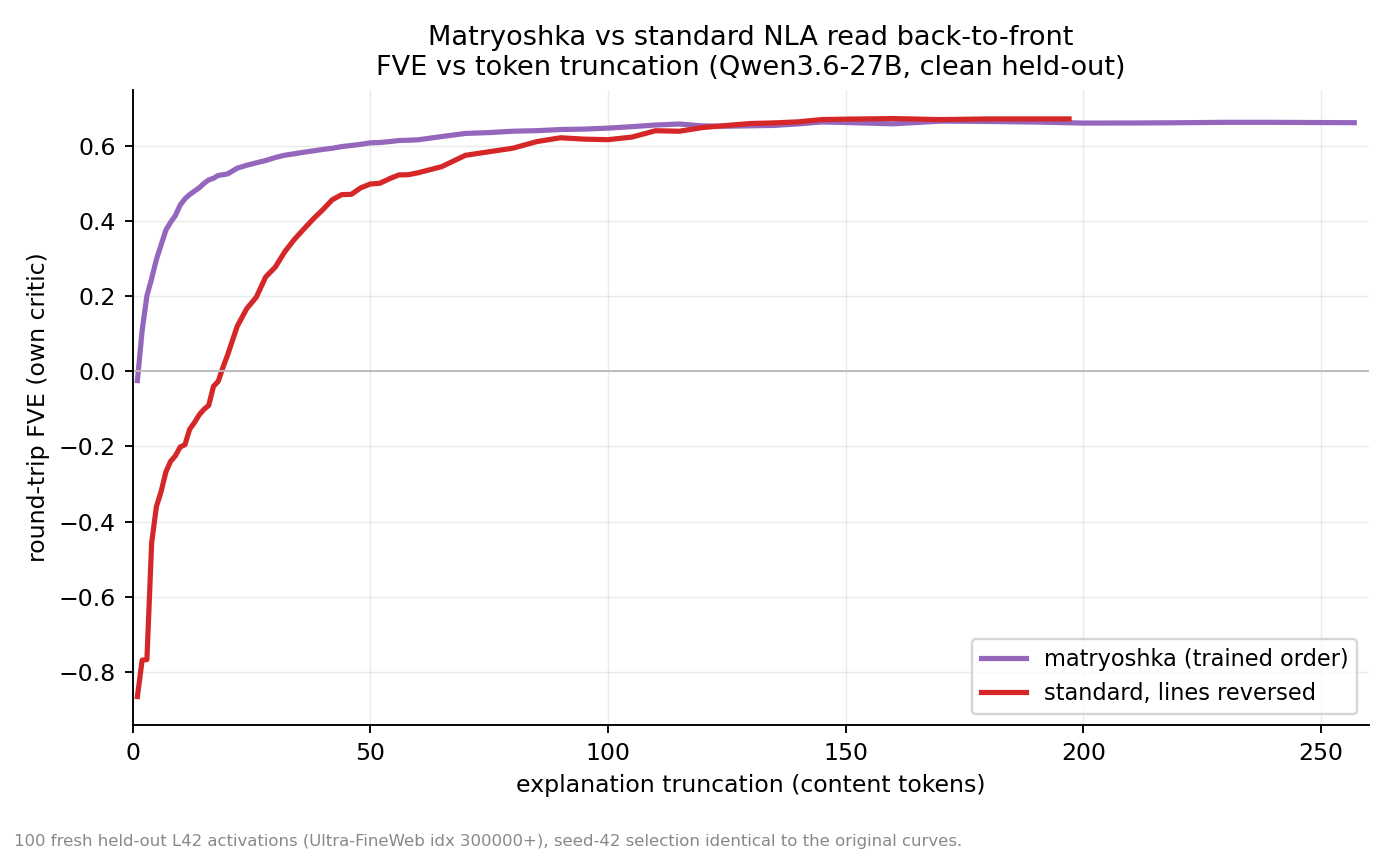
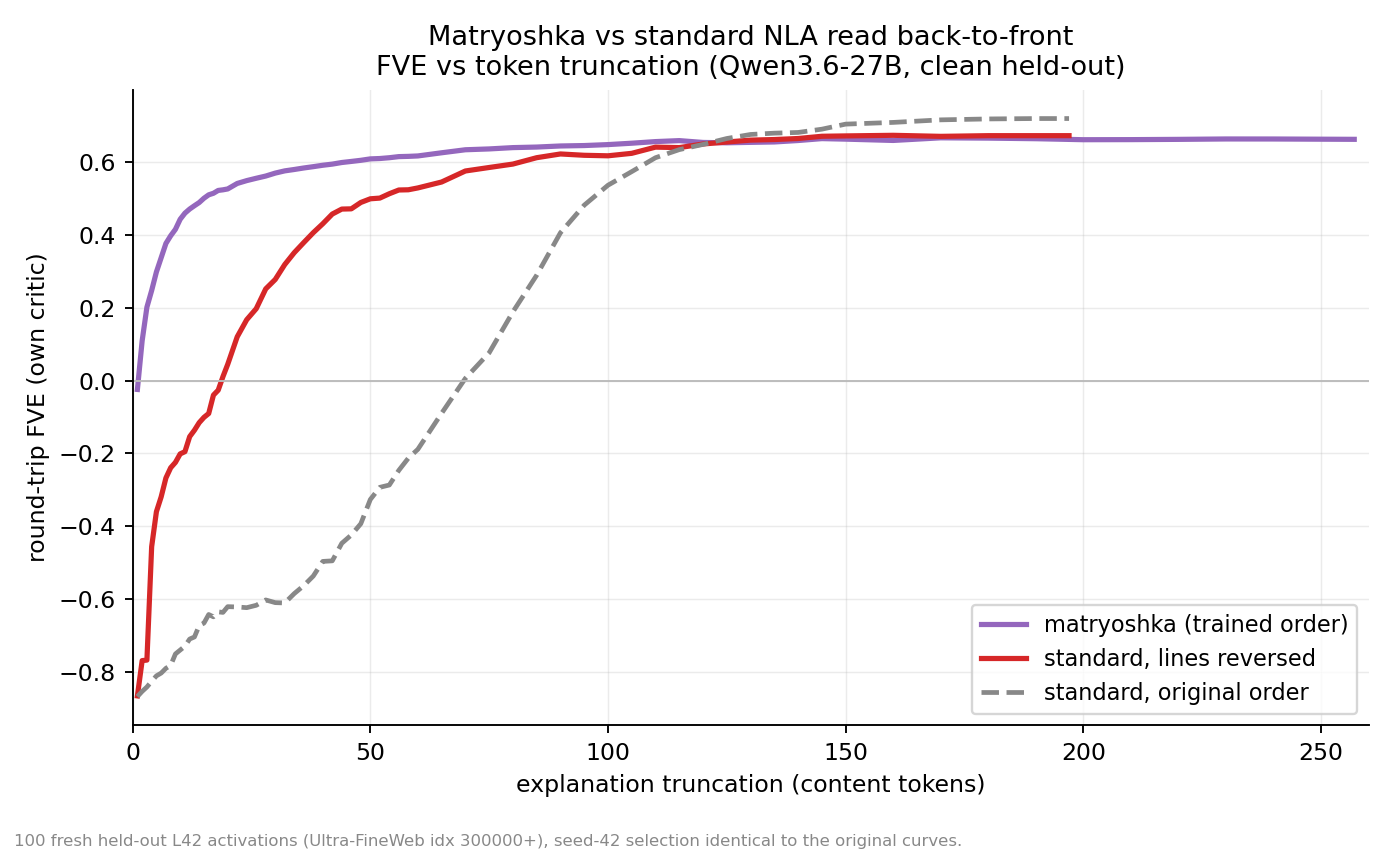
📊 add original-order standard to the pared-down reversed figure
Claude-Session: https://claude.ai/code/session_016mZoE5r73zpRomNLbakUWu

diff --git a/experiments/qwen3.6-27b-evalsuite/plot_rev_fve.py b/experiments/qwen3.6-27b-evalsuite/plot_rev_fve.py
@@ -74,10 +74,11 @@ def main():
     fig.savefig(out, dpi=170)
     print(f"[saved] {out}")
 
-    # pared-down two-curve version: matryoshka vs standard-lines-reversed
+    # pared-down version: matryoshka vs standard-lines-reversed (+ std original)
     fig, ax = plt.subplots(figsize=(8.2, 5.0))
     ax.plot(*zip(*mat), "-", color=PURPLE, lw=2.2, label="matryoshka (trained order)")
     ax.plot(*zip(*revl), "-", color=RED, lw=2.2, label="standard, lines reversed")
+    ax.plot(*zip(*orig), "--", color=GRAY, lw=2, label="standard, original order")
     ax.axhline(0, color="#bbbbbb", lw=0.8)
     ax.set_xlabel("explanation truncation (content tokens)")
     ax.set_ylabel("round-trip FVE (own critic)")
